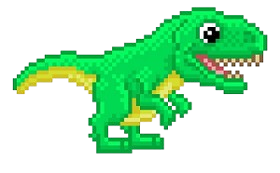
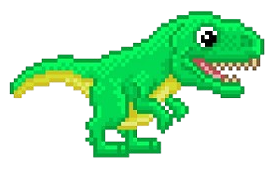
Escrita do relatório e pequenas alterações nos assets

diff --git a/core/src/main/java/io/github/joaohsw/DinoZ/Main.java b/core/src/main/java/io/github/joaohsw/DinoZ/Main.java
@@ -19,6 +19,7 @@ import com.badlogic.gdx.audio.Music;
 import java.util.Random;
 
 public class Main extends ApplicationAdapter {
+    
     private enum State {
         MENU, CHARACTER_SELECTION, COMBAT, VICTORY, DEFEAT
     }
@@ -101,7 +102,17 @@ public class Main extends ApplicationAdapter {
             new Pergunta("Quais são as formações geológicas mais comuns no Geoparque Caçapava do Sul?", new String[] {"Granitos e quartzitos", "Calcários e dolomitos", "Basaltos e diabásios", "Arenitos e conglomerados"}, 0),
             new Pergunta("O Geoparque Quarta Colônia está integrado a um projeto de pesquisa de qual universidade brasileira?", new String[] {"PUCRS", "UFRGS", "UFSM", "UNISINOS"}, 2),
             new Pergunta("Qual rio importante corta a região do Geoparque Quarta Colônia?", new String[] {"Rio Taquari", "Rio Uruguai", "Rio Íjui", "Rio Jacuí"}, 3),
-            new Pergunta("O Geoparque Caçapava do Sul está inserido em qual bioma brasileiro?", new String[] {"Amazônia", "Mata Atlântica", "Cerrado", "Pampa"}, 3)
+            new Pergunta("O Geoparque Caçapava do Sul está inserido em qual bioma brasileiro?", new String[] {"Amazônia", "Mata Atlântica", "Cerrado", "Pampa"}, 3),
+            new Pergunta("Qual é o período geológico associado aos fósseis encontrados no Geoparque Quarta Colônia?", new String[] {"Triássico", "Jurássico", "Cretáceo", "Devoniano"}, 0),
+            new Pergunta("Qual município do Geoparque Quarta Colônia é famoso por suas cachoeiras?", new String[] {"Itaara", "Nova Palma", "Silveira Martins", "Agudo"}, 2),
+            new Pergunta("Quais formações geológicas são características do Geoparque Caçapava do Sul?", new String[] {"Granitos e mármores", "Arenitos e quartzitos", "Calcários e dolomitos", "Basaltos e riolitos"}, 1),
+            new Pergunta("Qual é o papel das comunidades locais nos geoparques?", new String[] {"Explorar recursos naturais", "Preservar e divulgar o patrimônio", "Construir infraestrutura turística", "Administrar os territórios"}, 1),
+            new Pergunta("O Geoparque Caçapava do Sul pertence a qual região do Rio Grande do Sul?", new String[] {"Região Central", "Campanha Gaúcha", "Vale dos Sinos", "Fronteira Oeste"}, 1),
+            new Pergunta("Qual é o nome do evento anual que promove os geoparques e a geoconservação?", new String[] {"Semana da Terra", "Dia Internacional dos Geoparques", "Festival da Geodiversidade", "Geoparque Global Day"}, 0),
+            new Pergunta("Qual espécie fóssil é destaque nos estudos paleontológicos da Quarta Colônia?", new String[] {"Dinossauros herbívoros", "Dicinodontes", "Tubarões pré-históricos", "Pterossauros"}, 1),
+            new Pergunta("Quais atividades de educação ambiental são promovidas no Geoparque Quarta Colônia?", new String[] {"Workshops sobre fósseis", "Corridas de aventura", "Pesquisas de campo exclusivas", "Trilhas em áreas restritas"}, 0),
+            new Pergunta("O Geoparque Caçapava do Sul possui qual título em relação ao Rio Grande do Sul?", new String[] {"Capital Gaúcha do Basalto", "Capital Gaúcha dos Minerais", "Capital Gaúcha do Granito", "Capital Gaúcha do Quartzito"}, 3),
+            new Pergunta("Os geoparques são reconhecidos por qual tipo de turismo?", new String[] {"Turismo sustentável", "Turismo de aventura", "Turismo religioso", "Turismo urbano"}, 0)        
         };
         
 
@@ -217,7 +228,7 @@ public class Main extends ApplicationAdapter {
 
         Pergunta pergunta = perguntas[pergunta_atual];
         Label perguntaLabel = new Label("Pergunta: " + pergunta.texto, skin);
-        perguntaLabel.setFontScale(2);
+        perguntaLabel.setFontScale(1.65f);
 
         TextButton resposta1 = new TextButton(pergunta.opcoes[0], skin);
         TextButton resposta2 = new TextButton(pergunta.opcoes[1], skin);
@@ -253,6 +264,7 @@ public class Main extends ApplicationAdapter {
                     dinossauro_atual++;
                     if (dinossauro_atual < 3) {
                         vida_jogador = 100;
+                        pergunta_atual = (pergunta_atual + 1) % perguntas.length;
                         criarTelaCombate();
                     } else {
                         estado_atual = State.DEFEAT;
@@ -262,6 +274,7 @@ public class Main extends ApplicationAdapter {
                     adversario_atual++;
                     if (adversario_atual < 3) {
                         vida_adversario = 100;
+                        pergunta_atual = (pergunta_atual + 1) % perguntas.length;
                         criarTelaCombate();
                     } else {
                         estado_atual = State.VICTORY;
@@ -286,10 +299,7 @@ public class Main extends ApplicationAdapter {
         botoesTabela.add(resposta3).size(500, 50).padBottom(10).padRight(10);
         botoesTabela.add(resposta4).size(500, 50).padBottom(10);
         tabela.add(botoesTabela).padBottom(20).row();
-
-
-
-        
+    
     }
 
     @Override
@@ -309,8 +319,8 @@ public class Main extends ApplicationAdapter {
             shapeRenderer.setColor(0, 0, 1, 1);
             Texture textura_jogador[] = {dino1, dino3, dino5};
             if(dinossauro_atual == 0) lote.draw(textura_jogador[0], 230, 230);
-            if(dinossauro_atual == 1) lote.draw(textura_jogador[1], 230, 230);
-            if(dinossauro_atual == 2) lote.draw(textura_jogador[2], 230, 230);
+            if(dinossauro_atual == 1) lote.draw(textura_jogador[1], 230, 280);
+            if(dinossauro_atual == 2) lote.draw(textura_jogador[2], 280, 280, 180, 180);
 
             shapeRenderer.setColor(1, 0, 0, 1);
             shapeRenderer.rect(760, 590, vida_adversario * 2, 20);
@@ -318,8 +328,8 @@ public class Main extends ApplicationAdapter {
             shapeRenderer.setColor(1, 0, 0, 1);
             Texture textura_adversario[] = {dino2, dino4, dino6};
             if(adversario_atual == 0) lote.draw(textura_adversario[0], 770, 420, 180, 180);
-            if(adversario_atual == 1) lote.draw(textura_adversario[1], 770, 420, 180, 180);
-            if(adversario_atual == 2) lote.draw(textura_adversario[2], 770, 420, 180, 180);
+            if(adversario_atual == 1) lote.draw(textura_adversario[1], 770, 420, 150, 150);
+            if(adversario_atual == 2) lote.draw(textura_adversario[2], 770, 400, 190, 190);
 
             lote.end();
             shapeRenderer.end();

diff --git a/README.md b/README.md
@@ -1,36 +1,98 @@
-# DinoZ
+# Projeto final de programação orientada a objetos
 
-A [libGDX](https://libgdx.com/) project generated with [gdx-liftoff](https://github.com/libgdx/gdx-liftoff).
+**Nome:** João Henrique Scherer Wolski \
+**Curso:** Sistemas de informação
 
-This project was generated with a template including simple application launchers and an `ApplicationAdapter` extension that draws a simple GUI on the screen.
+Nesse projeto final da disciplina de paradigmas de programação foi desenvolvido o jogo **DinoZ**, um jogo de combate em turnos no qual o jogador cada rodada recebe uma pergunta com a temática dos Geoparques da região central do RS e, no caso de acerto, causa dano ao adversário e no caso de erro sofre dano do adversário. O jogo foi desenvolvido em Java utilizando o framework libGDX.
 
-## Platforms
+## Processo de desenvolvimento
 
-- `core`: Main module with the application logic shared by all platforms.
-- `lwjgl3`: Primary desktop platform using LWJGL3; was called 'desktop' in older docs.
-- `html`: Web platform using GWT and WebGL. Supports only Java projects.
+Inicialmente tive certo receio para decidir o tema do meu jogo, pois não queria fazer algo simplório nem tentar fazer demais e me complicar. Acabei chegando na ideia de desenvolver um jogo no estilo "Pokémon" que encaixa bem com a temática dos Geoparques de Caçapava do Sul e da Quarta Colônia. Após o fim do "processo criativo" comecei a testar algumas ideias com a libGDX e logo percebi que seria um processo muito mais agradável do que a experiência que eu tive com a biblioteca de C Allegro. \
+Os *primeiros 2 commits* representam apenas a instalação da libGDX, já no *3º commit* comecei o desenvolvimento do jogo adicionando um menu com botões "Jogar" e "Sair" funcionais, além de adicionar a imagem que viria a ser o plano de fundo do combate do jogo. Nessa primeira versão ao invés de basear o jogo em 5 possíveis estados como é o caso da versão final, fiz apenas um estado que seria `jogo_iniciado`. \
+No *4º commit* adicionei a lógica básica do jogo. Ela sofreu apenas pequenas modificações desse ponto até a versão final. 
+```java        
+    ClickListener listener = new ClickListener() {
+    @Override
+    public void clicked(InputEvent event, float x, float y) {
+        TextButton botao = (TextButton) event.getListenerActor();
+        if (botao.getText().toString().equals(pergunta.opcoes[pergunta.resposta_correta])) {
+            vida_adversario -= 10;
+        } else {
+            vida_jogador -= 10;
+        }
 
-## Gradle
+        if (vida_jogador <= 0) {
+            dinossauro_atual++;
+            if (dinossauro_atual < 3) {
+                vida_jogador = 100;
+                criarTelaCombate();
+            } else {
+                estado_atual = State.DEFEAT;
+                criarTelaDerrota();
+            }
+        } else if (vida_adversario <= 0) {
+            adversario_atual++;
+            if (adversario_atual < 3) {
+                vida_adversario = 100;
+                criarTelaCombate();
+            } else {
+                estado_atual = State.VICTORY;
+                criarTelaVitoria();
+            }
+        } else {
+            pergunta_atual = (pergunta_atual + 1) % perguntas.length;
+            criarTelaCombate();
+        }
+    }
+};
+```
+Após implementar a lógica de combate comecei a implementação dos assets, por algum motivo eu não conseguia adicionar mais nenhuma imagem além da imagem de fundo, então adicionei 2 círculos para representar os jogadores e pesquisei uma maneira simples de fazer uma barra de vida. 
+```java
 
-This project uses [Gradle](https://gradle.org/) to manage dependencies.
-The Gradle wrapper was included, so you can run Gradle tasks using `gradlew.bat` or `./gradlew` commands.
-Useful Gradle tasks and flags:
+public void render() {
 
-- `--continue`: when using this flag, errors will not stop the tasks from running.
-- `--daemon`: thanks to this flag, Gradle daemon will be used to run chosen tasks.
-- `--offline`: when using this flag, cached dependency archives will be used.
-- `--refresh-dependencies`: this flag forces validation of all dependencies. Useful for snapshot versions.
-- `build`: builds sources and archives of every project.
-- `cleanEclipse`: removes Eclipse project data.
-- `cleanIdea`: removes IntelliJ project data.
-- `clean`: removes `build` folders, which store compiled classes and built archives.
-- `eclipse`: generates Eclipse project data.
-- `html:dist`: compiles GWT sources. The compiled application can be found at `html/build/dist`: you can use any HTTP server to deploy it.
-- `html:superDev`: compiles GWT sources and runs the application in SuperDev mode. It will be available at [localhost:8080/html](http://localhost:8080/html). Use only during development.
-- `idea`: generates IntelliJ project data.
-- `lwjgl3:jar`: builds application's runnable jar, which can be found at `lwjgl3/build/libs`.
-- `lwjgl3:run`: starts the application.
-- `test`: runs unit tests (if any).
+        ScreenUtils.clear(0f, 0f, 0f, 1f);
 
-Note that most tasks that are not specific to a single project can be run with `name:` prefix, where the `name` should be replaced with the ID of a specific project.
-For example, `core:clean` removes `build` folder only from the `core` project.
+        if (estado_atual == State.COMBAT) {
+            lote.begin();
+            lote.draw(textura, 0, 0, 1280, 720);
+            lote.end();
+
+            shapeRenderer.begin(ShapeRenderer.ShapeType.Filled);
+            shapeRenderer.setColor(0, 0, 1, 1); 
+            shapeRenderer.circle(300, 360, 50); // Círculos para representar os jogadores
+            shapeRenderer.setColor(1, 0, 0, 1);
+            shapeRenderer.circle(980, 360, 50); // Círculos para representar os jogadores
+
+            shapeRenderer.setColor(0, 1, 0, 1);
+            shapeRenderer.rect(200, 650, vida_jogador * 2, 20); // Barra de vida, quando a vida do jogador diminui ela diminui também, extremamente simples
+
+            shapeRenderer.setColor(1, 0, 0, 1);
+            shapeRenderer.rect(880, 650, vida_adversario * 2, 20); // Barra de vida, quando a vida do jogador diminui ela diminui também, extremamente simples
+
+            shapeRenderer.end();
+        }
+
+        palco.act(Gdx.graphics.getDeltaTime());
+        palco.draw();
+    }
+
+    @Override
+    public void resize(int largura, int altura) {
+        palco.getViewport().update(largura, altura);
+    }
+```
+No *5º commit* adicionei imagens reais dos dinossauros que eu selecionei para o jogo, porém não achei que elas combinavam com a estética do jogo e acabei removendo. \
+Nos *commits 6 e 7* fiz a troca das imagens reais por imagens stock de dinossauros que tivessem um estilo mais retrô (8 ou 16 bits), também adicionei ao vetor de strings as perguntas que seriam utilizadas no jogo, além de colocar música e corrigir alguns detalhes como tamanho de fonte e posição de imagens. 
+
+## Diagrama UML
+
+## Referências
+[Wiki da libGDX](https://libgdx.com/wiki/) \
+[Subreddit da libGDX (muitas postagens)](https://www.reddit.com/r/libgdx/) \
+[libGDX no StackOverflow](https://stackoverflow.com/questions/tagged/libgdx) \
+[Raeleus no YouTube](https://www.youtube.com/@raeleus/videos) \
+[Yassa Taiseer no Youtube](https://www.youtube.com/@YassaTaiseer/featured)
+
+
+
